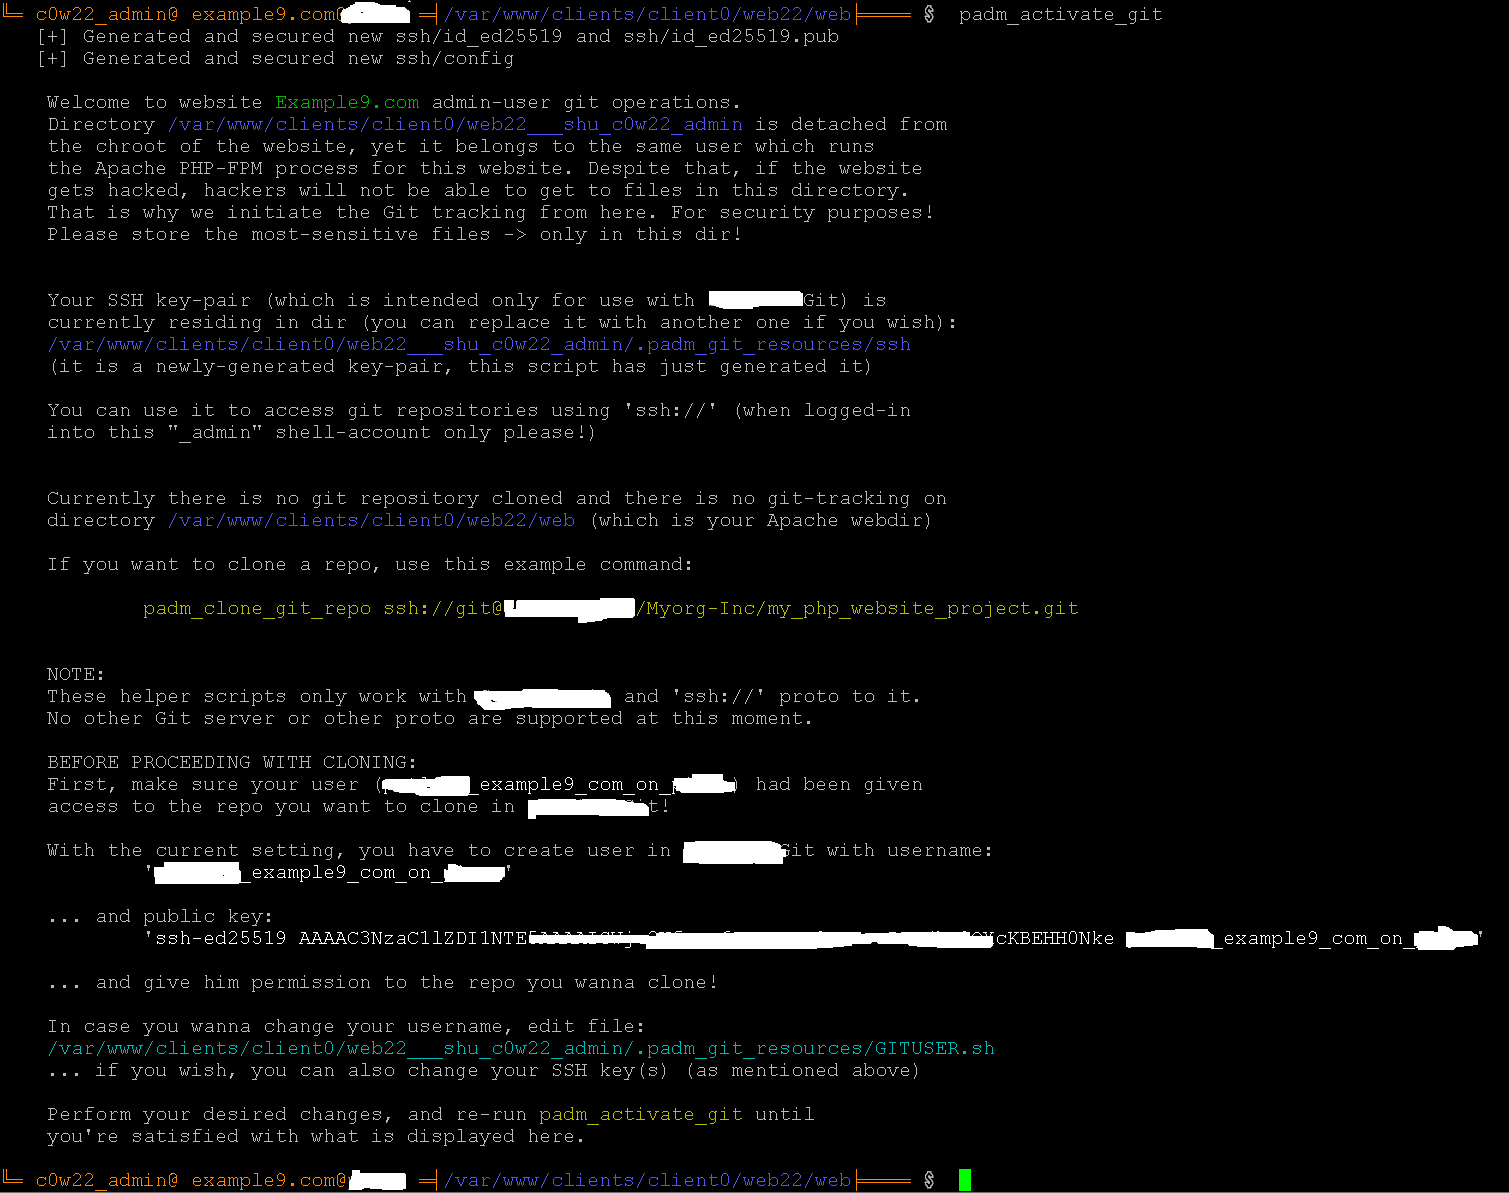
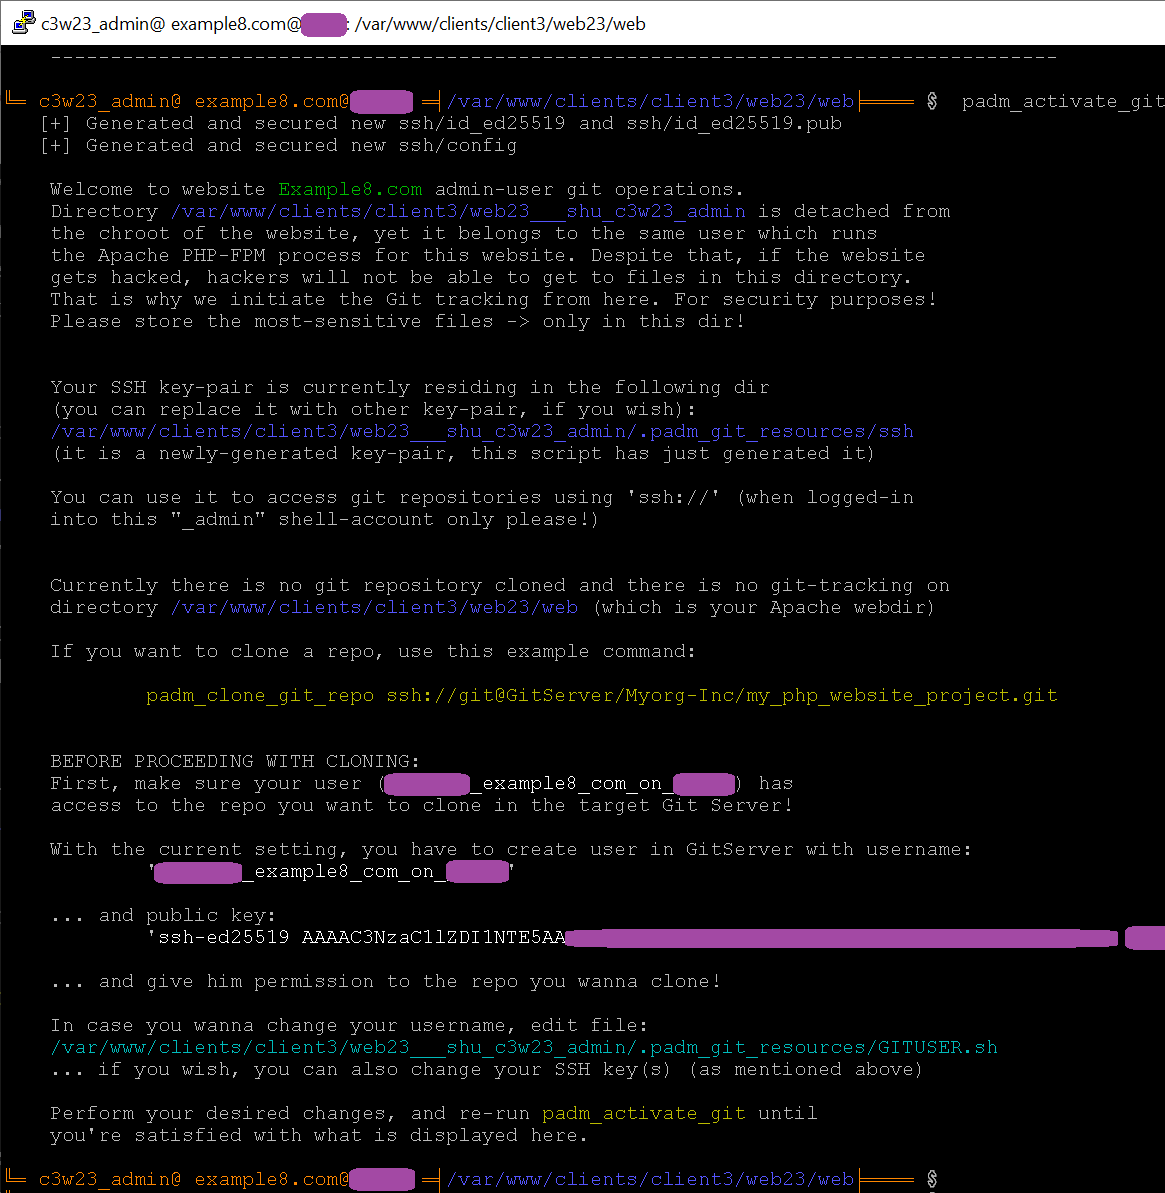
Update the documentation with new screenshots, and other changes on the docs

diff --git a/plugins-available/a_chrooted_website_custom_func.inc.php b/plugins-available/a_chrooted_website_custom_func.inc.php
@@ -4,7 +4,7 @@ MIT License
 Copyright (c) 2026 Talutah W Elan <talutahelan@gmail.com>
 
 Git repo: https://github.com/talutahelan-star/ispconfig-advanced-jailkit-tools
-Discussion board: asd
+Discussion board: https://forum.howtoforge.com/threads/ispconfig-advanced-jailkit-shell-user-and-git-tools.95089/
 
 Permission is hereby granted, free of charge, to any person obtaining a copy
 of this software and associated documentation files (the "Software"), to deal

diff --git a/plugins-available/z_chrooted_website_custom_func.inc.php b/plugins-available/z_chrooted_website_custom_func.inc.php
@@ -4,7 +4,7 @@ MIT License
 Copyright (c) 2026 Talutah W Elan <talutahelan@gmail.com>
 
 Git repo: https://github.com/talutahelan-star/ispconfig-advanced-jailkit-tools
-Discussion board: asd
+Discussion board: https://forum.howtoforge.com/threads/ispconfig-advanced-jailkit-shell-user-and-git-tools.95089/
 
 Permission is hereby granted, free of charge, to any person obtaining a copy
 of this software and associated documentation files (the "Software"), to deal

diff --git a/README.md b/README.md
@@ -4,6 +4,7 @@ Welcome to the **ISPConfig Advanced Jailkit and Git Tools**, a comprehensive ext
 
 *Co-authored by Talutah Elan and Gemini 3.1 Pro (AI).*
 
+* Discussion board: https://forum.howtoforge.com/threads/ispconfig-advanced-jailkit-shell-user-and-git-tools.95089/
 ---
 
 ### ⚠ IMPORTANT COMPATIBILITY DISCLAIMER
@@ -105,16 +106,26 @@ Use the built-in helper scripts to instantly generate SSH keys, configure your G
 
 ![Activating Git Tracking](https://raw.githubusercontent.com/talutahelan-star/ispconfig-advanced-jailkit-tools/refs/heads/main/_media/shell-admin-activate-git.png)
 
+### 4. Editing GITUSER.sh and/or SSH keys (optional)
+You can optionally edit your Git credentials and identity manually, and if you want, also you can replace the self-generated key-pair with another one at your preference.
+
+![Activating Git Tracking](https://raw.githubusercontent.com/talutahelan-star/ispconfig-advanced-jailkit-tools/refs/heads/main/_media/editing-gituser-sh.png)
+
+### 5. After editing GITUSER.sh
+Once you're satisfied with the git activation credentials and identity, you can easily just copy your public key to paste in the remote Git service for proper `ssh://` Git authentication.
+
+![Activating Git Tracking](https://raw.githubusercontent.com/talutahelan-star/ispconfig-advanced-jailkit-tools/refs/heads/main/_media/after-editing-gituser-sh.png)
+
 Once cloned, the terminal instantly becomes context-aware, displaying your branch name:
 
 ![Cloning Git Repo](https://raw.githubusercontent.com/talutahelan-star/ispconfig-advanced-jailkit-tools/refs/heads/main/_media/shell-admin-clone-git-repo.png)
 
-### 4. The Jailed User Experience
+### 6. The Jailed User Experience
 If a standard user logs in via Jailkit, they receive a beautiful terminal environment but are safely restricted from Git mechanics and Vault access.
 
 ![Jailed Shell Experience](https://raw.githubusercontent.com/talutahelan-star/ispconfig-advanced-jailkit-tools/refs/heads/main/_media/shell-jailed.png)
 
-### 5. Using Background Sessions (`dtach`)
+### 7. Using Background Sessions (`dtach`)
 Because `screen` and `tmux` can be difficult to run securely inside Jailkit, we use `dtach`. The `optional-dtach-wrappers/` provide an easy way to run programs in the background persistently:
 
 * `pdetachnow <socket_name> <command>`: Starts a command in the background, and releases the current terminal immediately (can be very usefull for creating singleton jailed cronjobs from the ISPConfig UI, or even executing singleton async background jobs from PHP itself. For instance:
@@ -127,10 +138,10 @@ This execution approach guarantees `StartDaemon.sh` (which is supposedly a long-
 
 Of course the wrappers and `dtach` can be used also in non-Jailed shell-accounts. But you can easily use `screen` or `tmux` on non-jailed accounts. So primary idea of the wrappers was to have a handy and safe alternative to run from within a Jail environment.
 
-### 6. Recommended Jailkit Appsections (Hosting Tiers)
+### 8. Recommended Jailkit Appsections (Hosting Tiers)
 Because of the deep enhancements made to `jk_init.ini`, we recommend setting up "Hosting Tiers" for your clients using these specific Appsection strings.
 
-⚠ Attention: Whatever tier you set, that's what the Jailed (chrooted) shell-users get. At the same time: that's what the PHP-scripts get as their execution environment. So, be carefull with setting tiers for insecure/hacked websites (the biggest threat). There is always a single Jail per website instance. Website's Jailed shell-users just happens to also "live" inside it.
+⚠ Attention: Whatever tier you set, that's what the Jailed (chrooted) shell-users get. At the same time: that's what the PHP-scripts get as their execution environment. So, be carefull while setting tiers for potentionally-insecure/and or less-verified websites (THIS IS THE BIGGEST THREAT). There is always a single Jail per website instance. Website's Jailed shell-users just happens to also "live" inside it.
 
 **Tier 1: Minimal & Safe - no background tasks (Set this as the Server-Level Default)**
 `jk_lsh sftp coreutils basicshell`
